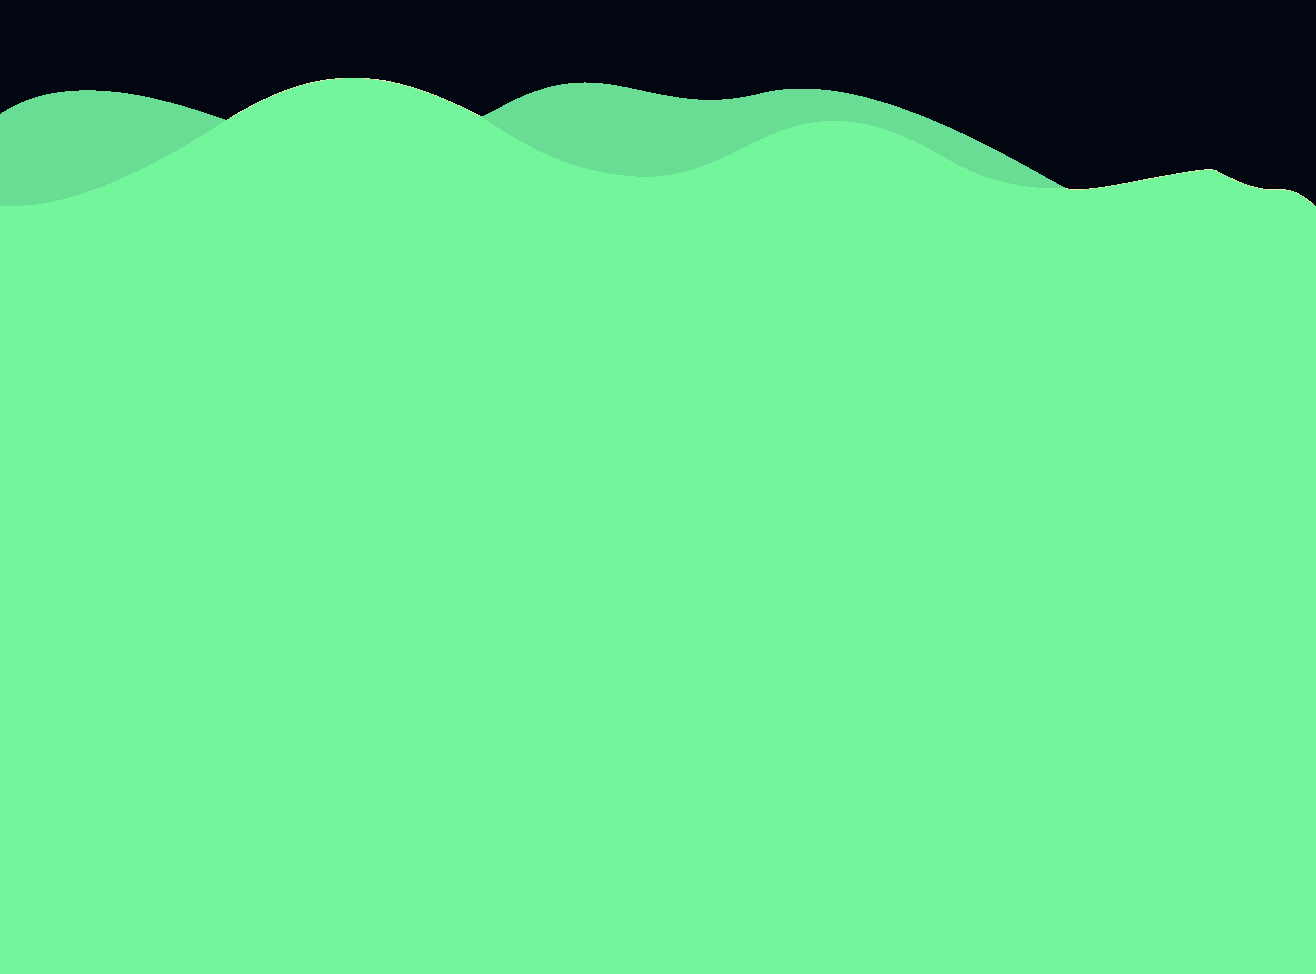
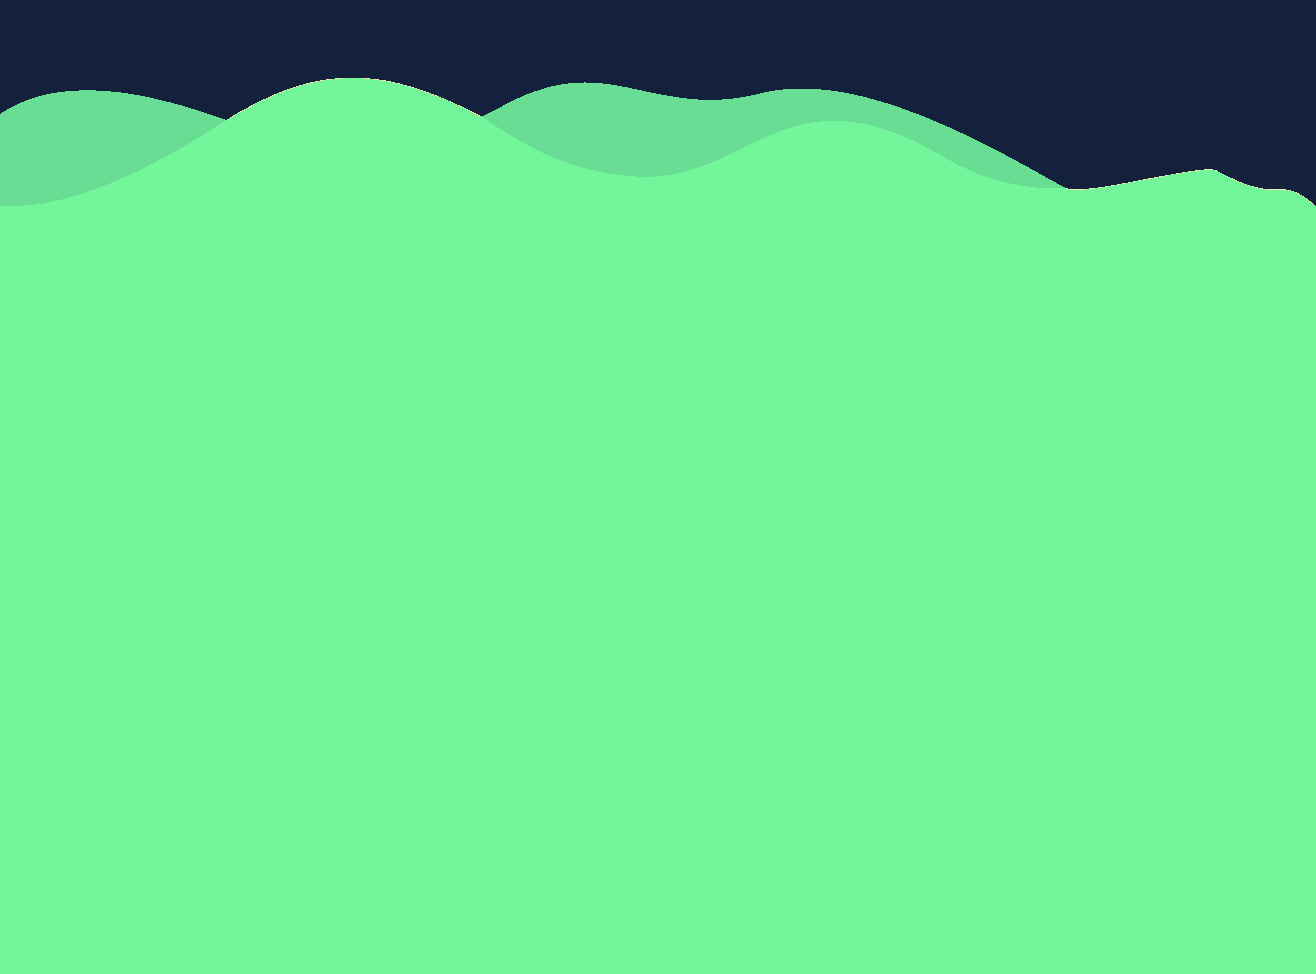
paddlepay version 2

Changed region(s): [[0.0, 0.0, 1.0, 0.2156]]

diff --git a/src/components/ViewPort/ViewPort.jsx b/src/components/ViewPort/ViewPort.jsx
@@ -1,0 +1,37 @@
+import React from "react";
+import Applestore from "../../images/applestore1.png";
+import Googleplay from "../../images/googleplay1.png";
+import ridebike from "../../images/ridebicycleupdated.png";
+
+const ViewPort = () => {
+  return (
+    <div className="flex flex-col md:flex-row md:w-4/5 mx-auto gap-12 items-center pt-28">
+      <div className="mt-8 w-5/6 md:w-2/5 text-white flex flex-col gap-8 ">
+        <div>
+          <h1 className=" text-6xl font-bold font-sans leading-relaxed">
+            Social-Fi & <br /> Game-Fi <br /> DAPP
+          </h1>
+        </div>
+        <div>
+          <p className=" text-2xl leading-relaxed font-semibold">
+            PaddlePay is a futuristic, eco-mobility platform combining worlds of
+            Game-Fi and Social-Fi into the most green mode of mobility, cycling.
+          </p>
+        </div>
+        <div className="flex gap-6">
+          <button>
+            <img className=" w-[160px]" src={Applestore} alt="" />
+          </button>
+          <button>
+            <img className=" w-[160px]" src={Googleplay} alt="" />
+          </button>
+        </div>
+      </div>
+      <div className="lg:w-2/3">
+        <img src={ridebike} alt="" />
+      </div>
+    </div>
+  );
+};
+
+export default ViewPort;

diff --git a/src/components/Header/Header.jsx b/src/components/Header/Header.jsx
@@ -7,10 +7,10 @@ const Header = () => {
   const [navId, setNavId] = useState();
 
   return (
-    <div className="w-full h-[85px] fixed z-20 bg-gradient-to-r from-[#06122e] via-black to-[#06122e] font-bold">
+    <div className="w-full h-[85px] fixed z-20 bg-[#14213d] font-[Fira Sans]">
       <div className="w-4/5 flex justify-between items-center mx-auto pt-[15px]">
         <Logo width={"w-[200px]"} />
-        <div className="flex gap-8 items-center text-base font-semibold ">
+        <div className="flex gap-8 items-center text-sm font-semibold ">
           {menus.map((menu) => (
             <a
               key={menu.id}
@@ -18,7 +18,7 @@ const Header = () => {
                 navId === menu.id ? "text-[#73f59b]" : "text-white"
               } ${
                 menu.id === "button"
-                  ? "bg-[#5b7fd7] py-3 px-5 rounded-md text-white"
+                  ? "bg-[#274077] py-3 px-5 rounded-md text-white"
                   : ""
               }`}
               onClick={() => setNavId(menu.id)}

diff --git a/src/components/Body.jsx b/src/components/Body.jsx
@@ -4,18 +4,20 @@ import Header from "./Header/Header";
 // import SectionSeven from "./SectionSeven/SectionSeven";
 import SectionSix from "./SectionSix/SectionSix";
 import SectionThree from "./SectionThree/SectionThree";
-import SectionTwo from "./SectionTwo/SectionTwo";
+// import SectionTwo from "./SectionTwo/SectionTwo";
 // import Timeline from "./Timeline/Timeline";
 import SlickSlider from "./SlickSlider/SlickSlider";
 // import SectionFour from "./SectionFour/SectionFour";
 import FooterTwo from "./Footer2/FooterTwo";
 import TimelineRoadMap from "./TimelineRoadMap/TimelineRoadMap";
+import ViewPort from "./ViewPort/ViewPort";
 
 const Body = () => {
   return (
-    <div className="w-full bg-gradient-to-r from-[#06122e] via-black to-[#06122e] font-sans">
+    <div className="w-full bg-[#14213d] font-sans">
       <Header />
-      <SectionTwo />
+      <ViewPort />
+      {/* <SectionTwo /> */}
       <SlickSlider />
       <SectionThree />
       <SectionSix />

diff --git a/src/components/SectionTwo/SectionTwo.jsx b/src/components/SectionTwo/SectionTwo.jsx
@@ -9,12 +9,12 @@ import positive from "../../images/smiling-face.png";
 const SectionTwo = () => {
   return (
     <div
-      className="flex flex-col md:flex-row md:w-5/6 mx-auto gap-12 items-center pt-20"
+      className="flex flex-col md:flex-row md:w-4/5 mx-auto gap-12 items-center pt-20"
       id="home"
     >
       <div className="mt-8 w-5/6 md:w-1/2 ">
         <div className="mb-10">
-          <h2 className="lg:text-[42px] text-3xl text-center leading-loose font-bold text-white">
+          <h2 className="lg:text-[42px] text-3xl text-left leading-loose font-bold text-white">
             Social-Fi & Game-Fi <span className="text-[#2a77d7]">DAPP</span>
           </h2>
         </div>

diff --git a/src/arrays/menuArray.js b/src/arrays/menuArray.js
@@ -1,8 +1,8 @@
 export const menus = [
   {
     id: 1,
-    title: "Home",
-    link: "#home",
+    title: "NFTs",
+    link: "#Bikes",
   },
   {
     id: 2,
@@ -11,12 +11,12 @@ export const menus = [
   },
   {
     id: 3,
-    title: "Features",
+    title: "Overview",
     link: "#Features",
   },
   {
     id: 4,
-    title: "Team",
+    title: "Our Team",
     link: "#team",
   },
   {
@@ -26,7 +26,7 @@ export const menus = [
   },
   {
     id: "button",
-    title: "NFT",
+    title: "Whitepaper",
     link: "#Roadmap",
   },
 ];

diff --git a/src/components/Footer2/FooterTwo.jsx b/src/components/Footer2/FooterTwo.jsx
@@ -9,7 +9,7 @@ import Logo from "../Header/Logo";
 const FooterTwo = () => {
   return (
     <div className="text-white">
-      <div className="flex lg:flex-row flex-col w-4/5 lg:justify-between items-center text-center gap-8 text-white mx-auto my-16">
+      <div className="flex lg:flex-row flex-col w-4/5 lg:justify-between items-center lg:text-left text-center gap-8 text-white mx-auto my-16">
         <div className="flex flex-col">
           <h2 className="text-[#73f59b] mb-3">Contact</h2>
           <ul>

diff --git a/src/components/TimelineRoadMap/TimelineRoadMap.jsx b/src/components/TimelineRoadMap/TimelineRoadMap.jsx
@@ -4,7 +4,9 @@ import timelinebg from "../../images/timelinebg.png";
 const TimelineRoadMap = () => {
   return (
     <div id="Roadmap" className="pb-10 pt-24">
-      <h2 className="text-white font-bold text-6xl text-center">Road Map</h2>
+      <h2 className="text-white font-bold lg:text-[3em] text-6xl text-center">
+        Road Map
+      </h2>
       <div className="bg-roadmapbg bg-cover bg-no-repeat mx-auto pt-64 pb-20">
         <img className="w-5/6 mx-auto" src={timelinebg} alt="" />
       </div>

diff --git a/src/components/SectionThree/SectionThree.jsx b/src/components/SectionThree/SectionThree.jsx
@@ -5,7 +5,7 @@ const SectionThree = () => {
   return (
     <div id="Features" className="w-3/4 mx-auto lg:pt-28 pt-10">
       <div>
-        <h2 className="lg:text-[3em] text-[1.875em] font-bold text-center text-white lg:mb-16">
+        <h2 className="lg:text-[3em] text-[1.875em] font-bold text-center text-white lg:mb-16 font-mono">
           The Groundbreaking Bike-To-Earn.
         </h2>
       </div>

diff --git a/src/components/SectionSix/SectionSix.jsx b/src/components/SectionSix/SectionSix.jsx
@@ -5,7 +5,7 @@ const SectionSix = () => {
   return (
     <div className="w-3/4 mx-auto lg:pt-10" id="team">
       <div>
-        <h2 className="lg:text-6xl text-4xl text-white font-bold text-center my-16">
+        <h2 className="lg:text-[3em] text-3xl text-white font-bold text-center my-16 font-mono">
           Team Member.
         </h2>
       </div>
